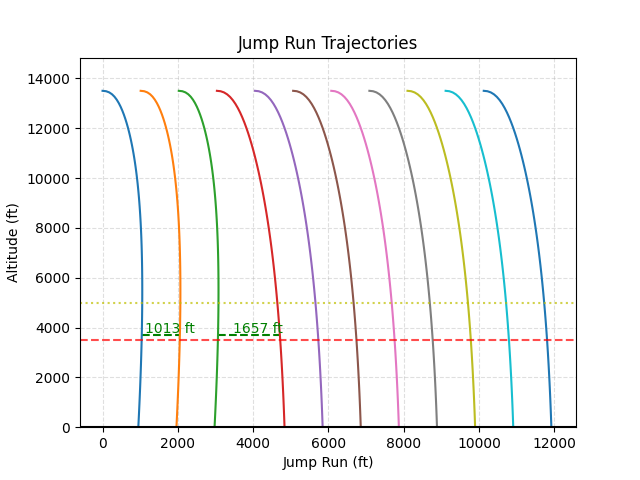
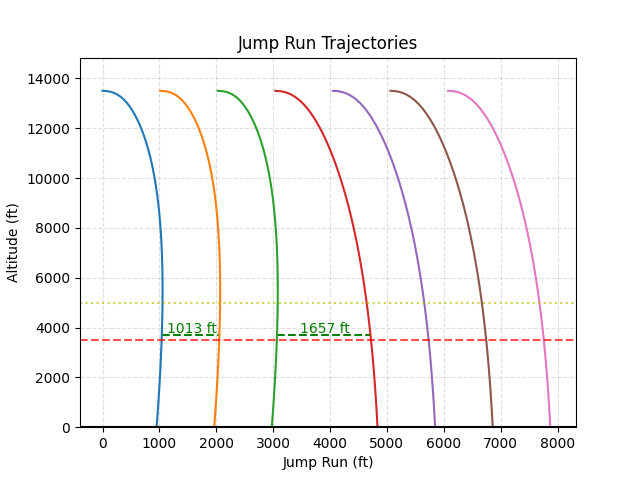
Added variable descriptions to params setup

Changed region(s): [[0.1562, 0.1875, 0.9062, 0.9375]]

diff --git a/parameters.py b/parameters.py
@@ -2,6 +2,7 @@
 
 import const
 import os
+import sys
 from termcolor import colored
 from types import ModuleType
 
@@ -12,25 +13,31 @@ class Params:
         self.BREAKOFF_ALT    = 5000        # Breakoff altitude in feet
         self.PULL_ALT        = 3500        # Pull altitude in feet
         self.IDEAL_SEP       = 1000        # Ideal exit separation (1000 feet)
-
-        self.SIM_TIME        = 120         # Simulation time in seconds
-
-        self.weight          = 160         # Jumper exit weight in pounds
-
         self.V_upper         = 10          # Uppers in knots
         self.V_air           = 70          # Jump run airspeed in knots 
-
         self.t_sep           = 10          # Exit separation in seconds
         self.num_groups      = 7           # Number of groups on the load
-
+        self.weight          = 160         # Average jumper exit weight in pounds
+        
         self.setup()
 
 
     # TODO: Have this print out units, explanations of the variables, etc.
     def show(self):
+        # NOTE: Unfortunately, not sure how I would make this not be hard-coded
+        var_help = {}
+        var_help['EXIT_ALT'] = "Exit altitude in feet"
+        var_help['BREAKOFF_ALT'] = "Breakoff altitude in feet"
+        var_help['PULL_ALT'] = "Pull altitude in feet"
+        var_help['IDEAL_SEP'] = "Ideal exit separation in feet (default: 1000)"
+        var_help['weight'] = "Average jumper exit weight in pounds"
+        var_help['V_upper'] = "Average winds aloft uppers in knots"
+        var_help['V_air'] = "Jump run aircraft airspeed in knots"
+        var_help['t_sep'] = "Exit separation in seconds"
+        var_help['num_groups'] = "Number of groups on the load"
         print("")
         for i, key in enumerate(self.__dict__):
-            print(f"{str(i+1) + ') ' + key:<30}{self.__dict__[key]:<40}")
+            print(f"{str(i+1) + ') ' + key:<20}{self.__dict__[key]:<10}{var_help[key]:<30}")
         print("")
 
     def setup(self):

diff --git a/main.py b/main.py
@@ -9,7 +9,6 @@
 # TODO: Add more granular winds aloft layers to reflect different wind speeds
 #       at different altitudes (V_upper)
 # TODO: Clean up / Comment code
-# TODO: Add user interface to allow for run-time changes to configurable values
 # TODO: Add option to import data from CSV file of the load, including number
 #       of groups, discipline for each group, average mass of the group, etc.
 
@@ -39,6 +38,10 @@ z0 = params.EXIT_ALT / const.M_TO_FT        # Initial Altitude in meters
 m = params.weight * const.LB_TO_KG          # Jumper mass in kg
 V_upper = params.V_upper * const.KT_TO_MPS  # Uppers in m/s (TODO: Make non-constant)
 Va = params.V_air * const.KT_TO_MPS         # Aircraft airspeed in m/s
+sim_time = params.num_groups * 20           # Simulation time in seconds
+sim_time = 120                              # TODO: Figure out how to make this
+                                            # dynamic, since the above line makes
+                                            # the x limit of the plot very negative
 
 Q = 0                                       # rho*A*CD, to keep code clean
 Vg = Va - V_upper                           # Aircraft groundspeed in m/s
@@ -49,6 +52,7 @@ def signal_handler(sig, frame):
     os.system("killall -s 9 eog")
     sys.exit(0)
 
+# Return array index where array value is closest to provided value
 def find_nearest(array, value):
     closest = 0
     found = False
@@ -132,7 +136,7 @@ if __name__ == "__main__":
     signal.signal(signal.SIGINT, signal_handler)
 
     # Array of time stamps for jump data in seconds
-    t = np.array(range(params.SIM_TIME))
+    t = np.array(range(sim_time))
 
     # Create an array of Skydivers based on num_groups
     load = []
